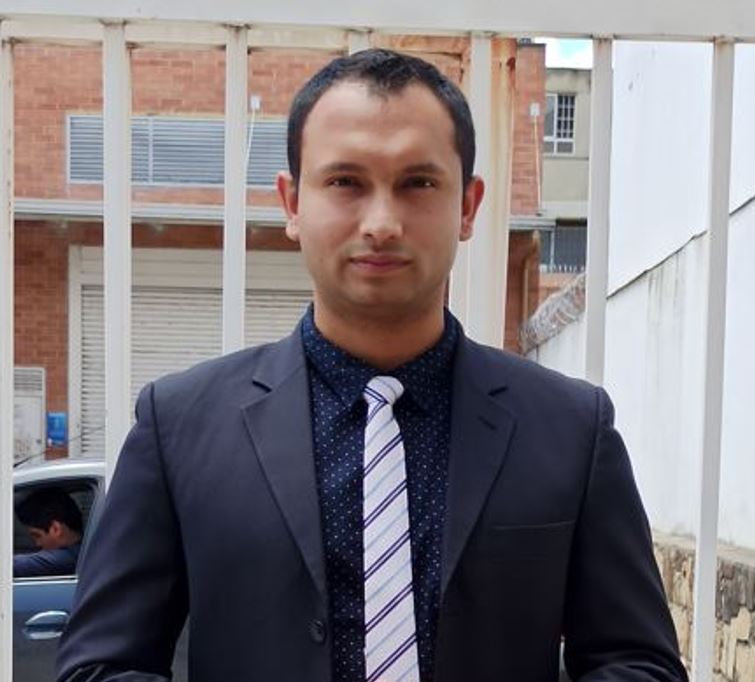
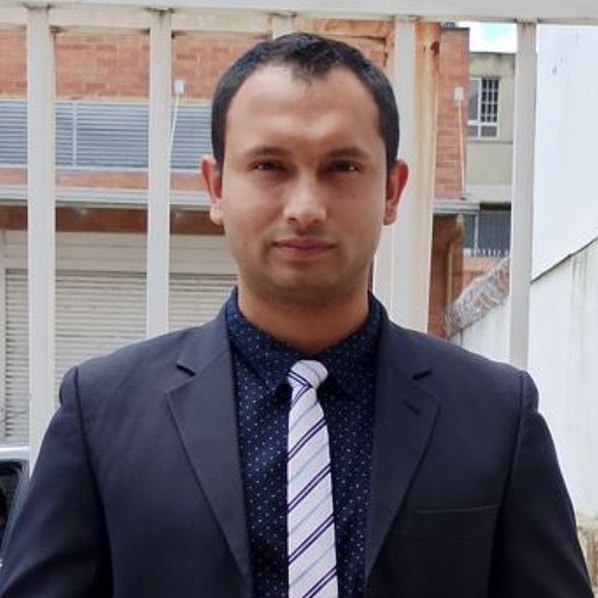
create many files

diff --git a/src/components/profile/profile.jsx b/src/components/profile/profile.jsx
@@ -1,16 +1,15 @@
 import profileImage from '../../assets/images/profile/profile.JPG';
+import Socials from '../contact/socials/socials';
+import styles from './profile.module.css';
 
 function Profile() {
     return (
-        <div>
-            <h1>Carlos Cruz</h1>
-            <h2>Full Stack Web Developer</h2>
-            <img src={profileImage} alt="profile" />
-            <p>
-                Soy desarrollador web Full Stack, con conocimiento en diferentes tecnologías back end como Node,
-                Sequelize, bases de datos y tecnologías front end como, React y Redux. Cuento con experiencia en el 
-                desarrollo de una aplicación web creada de forma grupal para el bootcamp de Soy Henry, y el desarrollo 
-            </p>
+        <div className={styles.container}>
+            <h1 className={styles.name}>Carlos Cruz</h1>
+            <h2 className={styles.profession}>Full Stack Web Developer</h2>            
+            <p></p>
+            <img className={styles.profileImage} src={profileImage} alt="profile" />
+            <div className={styles.socials}><Socials/></div>            
         </div>
     );
 };

diff --git a/src/components/contact/socials/socials.jsx b/src/components/contact/socials/socials.jsx
@@ -1,0 +1,30 @@
+import linkedin from '../../../assets/images/contact/linkedin.png';
+import github from '../../../assets/images/contact/github.png';
+import twitter from '../../../assets/images/contact/twitter.png';
+import styles from './socials.module.css';
+
+function Socials() {
+    return (
+        <div className={styles.container}>
+            <ul>
+                <li>
+                    <a href="https://www.linkedin.com/in/carlos-cruz-870119204" target="_blank">
+                        <img src={linkedin} alt="linkedin" />
+                    </a>
+                </li>
+                <li>
+                    <a href="https://www.github.com/CarlosArte91" target="_blank">
+                        <img src={github} alt="github" />
+                    </a>
+                </li>
+                <li>
+                    <a href="https://www.github.com/CarlosArte91" target="_blank">
+                        <img src={twitter} alt="twitter" />
+                    </a>
+                </li>
+            </ul>
+        </div>
+    );
+};
+
+export default Socials;

diff --git a/src/assets/data/aboutMe.js b/src/assets/data/aboutMe.js
@@ -1,0 +1,3 @@
+const aboutMe = "Soy desarrollador web Full Stack, con conocimiento en diferentes tecnologías back end como Node, Sequelize, bases de datos y tecnologías front end como, React y Redux. Cuento con experiencia en el desarrollo de una aplicación web creada de forma grupal para el bootcamp de Soy Henry, y el desarrollo de un proyecto individual para el mismo. Curso 4to semestre de ingeniería de Software en la corporación universitaria Iberoamericana.\nPoseo más de 2 años de experiencia liderando equipos de trabajo en áreas de producción, enfocado en la búsqueda de estrategias de mejora continua y gestión de proyectos. También, cuento con experiencia por más de 4 años en el manejo del ERP Microsoft Dynamics AX.\nSoy analítico, me adapto con facilidad a grupos de trabajo, tengo capacidad para aprender rápidamente las labores del cargo entendiendo su integración con los objetivos del negocio y me destaco por tener empatía y habilidades sociales fomentando un buen clima laboral.";
+
+export default aboutMe;

diff --git a/src/components/profile/profile.module.css b/src/components/profile/profile.module.css
@@ -1,0 +1,46 @@
+.container {    
+    color: #e3d2ea;
+    margin: 0% 7%;
+    padding: 5%;
+    font-family:'Segoe UI', Tahoma, Geneva, Verdana, sans-serif;
+    display: grid;
+    background-color: #2c304b;
+    grid-template-columns: repeat(2, 1fr);
+    grid-template-rows: repeat(2, 20%) 1fr 1fr;
+    place-items: center;
+}
+
+.profileImage {
+    grid-row-start: 1;
+    grid-row-end: 4;
+    grid-column-start: 2;
+    grid-column-end: 3;
+    width: 25vw;
+    border-radius: 50%;
+    border: solid 3px #a6a1df;  
+}
+
+.name {
+    font-size: 5vw;
+    margin: 0;
+    padding-top: 10%;
+}
+
+.profession {
+    font-size: 3vw;
+    margin: 0;
+    padding-bottom: 8%;
+}
+
+.socials {
+    grid-row-start: 4;
+    grid-row-end: 5;
+    grid-column-start: 2;
+    grid-column-end: 3;
+    padding-bottom: 17%;
+}
+
+.container p {
+    font-size: 1.5vw;
+}
+

diff --git a/src/components/navegation/navbar/navbar.module.css b/src/components/navegation/navbar/navbar.module.css
@@ -1,0 +1,47 @@
+.container {
+    background-color: #06060f;
+    height: 7vw;
+    display: flex;
+    align-items: center;
+    justify-content: space-between;
+    padding: 0 5%;
+}
+
+.container ul {
+    margin: 0;
+    padding: 0;
+    width: 35%;
+}
+
+.container ul li {
+    list-style: none;
+    display: inline-block;
+    margin: 0% 7%;
+    position: relative;
+}
+
+.container ul li a {
+    text-decoration: none;
+    color: #e3d2ea;
+    font-family:'Segoe UI', Tahoma, Geneva, Verdana, sans-serif;
+    font-size: 1.3vw;
+}
+
+.container ul li::before {
+    content: "";
+    height: 3px;
+    width: 0%;
+    background: #a6a1df;
+    position: absolute;
+    left: 0;
+    bottom: -12px;
+    transition: 0.4s ease-out;
+}
+
+.container ul li:hover::before {
+    width: 100%;
+}
+
+.container img {
+    width: 5vw;
+}

diff --git a/src/components/navegation/navbar/navbar.jsx b/src/components/navegation/navbar/navbar.jsx
@@ -1,11 +1,14 @@
+import logo from '../../../assets/images/contact/logo.png';
+import styles from './navbar.module.css';
 
 function Navbar() {
     return (
-        <div>
+        <div className={styles.container}>
+            <img src={logo} alt="logo" />
             <ul>
-                <li>Proyectos</li>
-                <li>Habilidades</li>
-                <li>Contacto</li>
+                <li><a href="#">Proyectos</a></li>
+                <li><a href="#">Habilidades</a></li>
+                <li><a href="#">Contacto</a></li>
             </ul>
         </div>
     );

diff --git a/public/index.html b/public/index.html
@@ -24,7 +24,8 @@
       work correctly both with client-side routing and a non-root public URL.
       Learn how to configure a non-root public URL by running `npm run build`.
     -->
-    <title>React App</title>
+    <link rel="stylesheet" href="./style.css">
+    <title>Carlos Cruz</title>
   </head>
   <body>
     <noscript>You need to enable JavaScript to run this app.</noscript>

diff --git a/src/App.js b/src/App.js
@@ -1,13 +1,12 @@
-import './App.css';
 import Navbar from './components/navegation/navbar/navbar';
 import Profile from './components/profile/profile';
 
 function App() {
   return (
-    <div className="App-header">
+    <>
       <Navbar/>
       <Profile/>
-    </div>
+    </>
   );
 }
 

diff --git a/src/components/contact/socials/socials.module.css b/src/components/contact/socials/socials.module.css
@@ -1,0 +1,19 @@
+.container {
+    width: 100%;
+    display: flex;
+    justify-content: center;
+}
+
+.container ul {
+    padding: 0;
+}
+
+.container ul li {
+    list-style: none;
+    display: inline-block;
+    margin: 0 2vw;
+}
+
+.container img {
+    width: 5vw;
+}

diff --git a/src/index.js b/src/index.js
@@ -1,6 +1,5 @@
 import React from 'react';
 import ReactDOM from 'react-dom/client';
-import './index.css';
 import App from './App';
 import reportWebVitals from './reportWebVitals';
 

diff --git a/public/style.css b/public/style.css
@@ -1,0 +1,4 @@
+body {
+    margin: 0;
+    padding: 0;
+}
